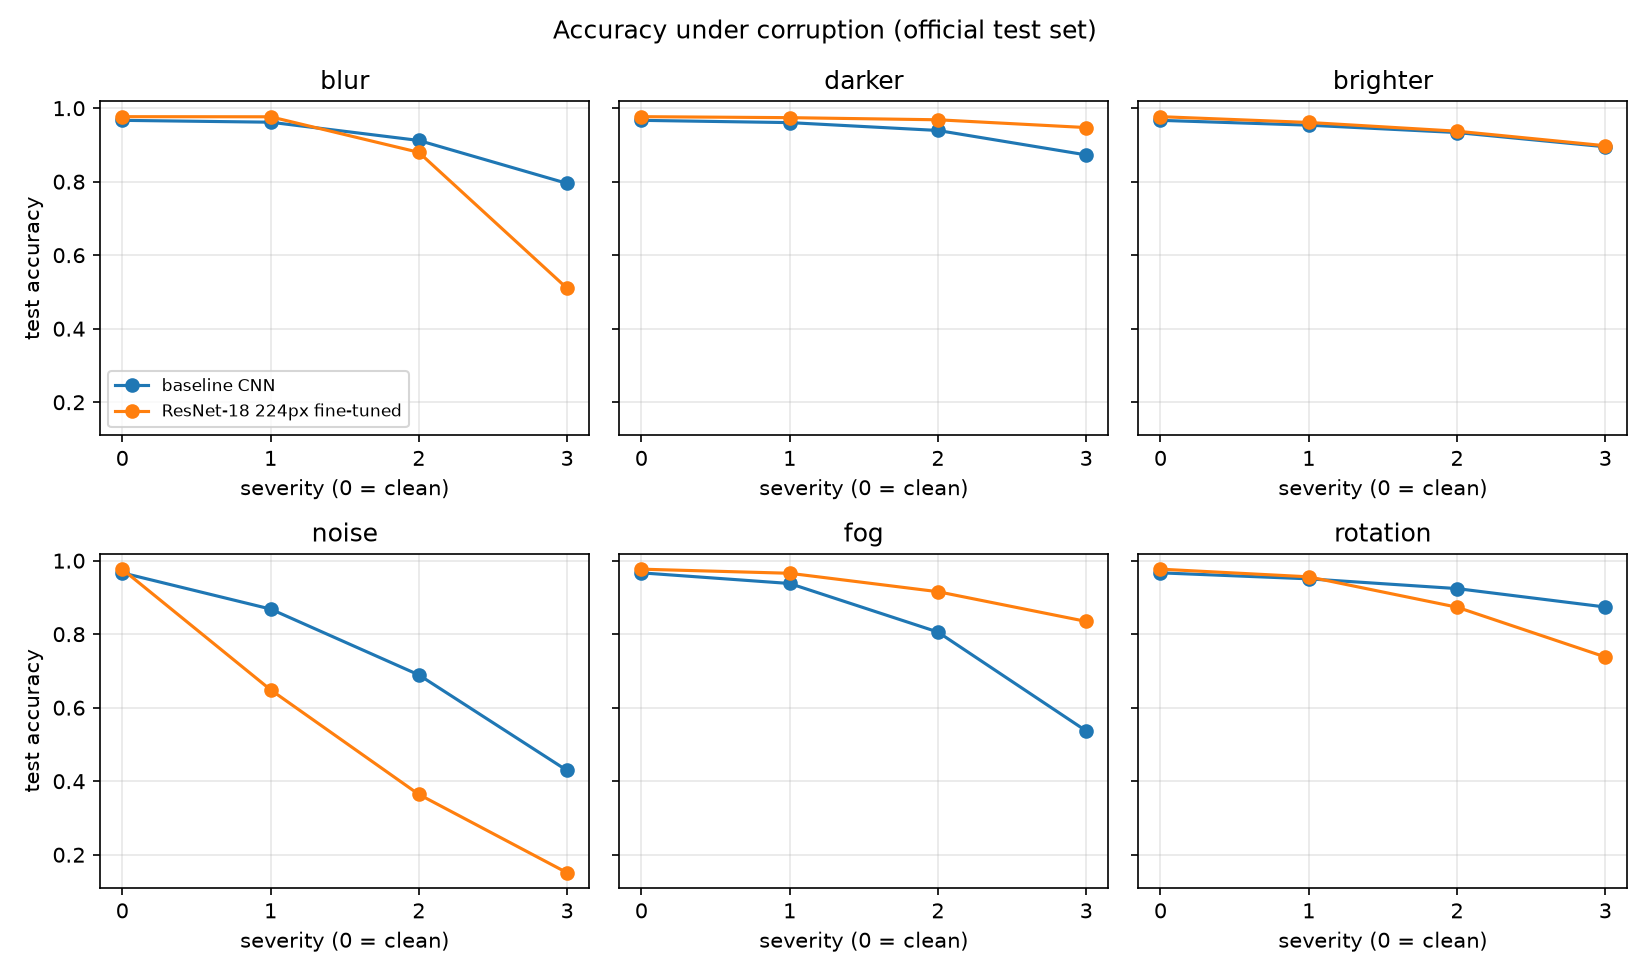
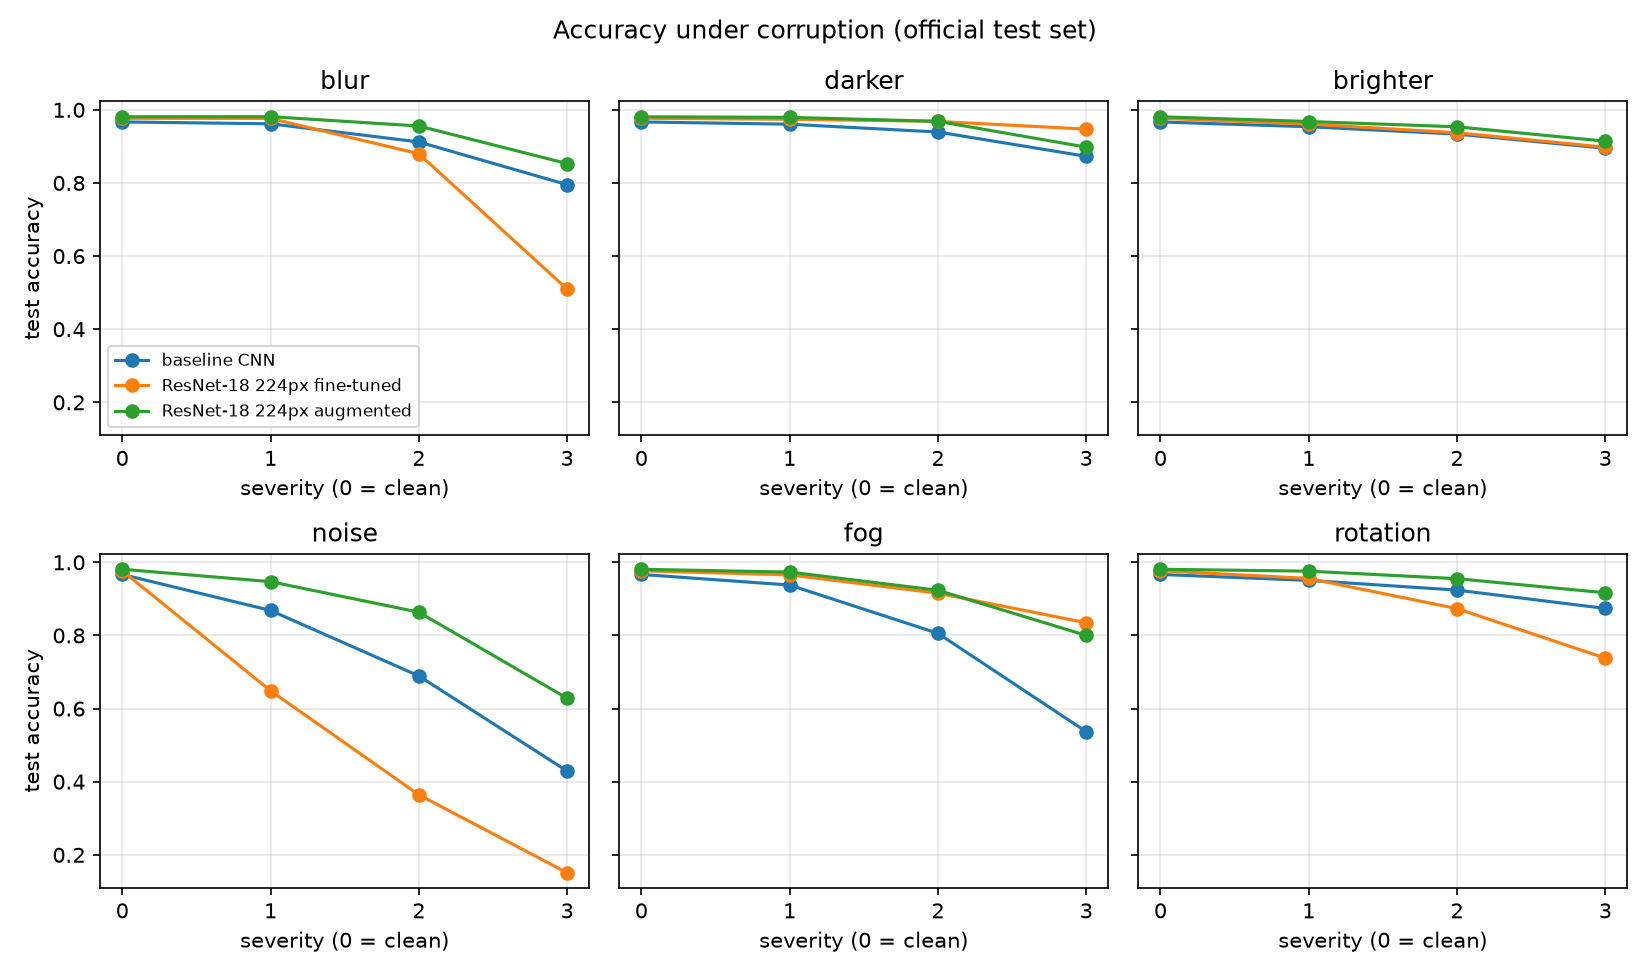
Add augmented fine-tuning, pytest suite and prediction script
Fine-tuning with random blur and noise on training batches reaches 98.11%
clean test accuracy (97.69% without augmentation). Under corruption it beats
the baseline in all 18 conditions, and it is much better on noise (62.83%
vs 15.10% at the strongest level, which is outside its training range).
Its small losses to the unaugmented model on the strongest darkness and
haze levels are kept in the notes.

Also adds:
- robustness.py now evaluates all three models
- a pytest suite of 14 tests that needs no dataset or checkpoints
- predict.py for classifying cropped sign photos

diff --git a/src/tsc/finetune.py b/src/tsc/finetune.py
@@ -1,9 +1,11 @@
 """Fine-tuning: unfreeze the whole ResNet-18 and train it at a low learning rate."""
 import argparse
+import math
 from functools import partial
 
 import torch
 from torch import nn
+from torchvision.transforms import functional as TF
 from torch.utils.data import DataLoader, TensorDataset
 
 from tsc.data import load_train_split, split_train_val, to_tensors
@@ -23,9 +25,26 @@ EPOCHS = 5
 LR = 1e-4
 
 
-def train_all_layers(model, loader, optimizer, loss_fn, device, preprocess):
+def augment_batch(xb):
+    # Training-only augmentation. Each batch is left clean, blurred, or given noise, chosen at random.
+    # The ranges are narrower than the robustness test's strengths, so the test still includes unseen corruptions.
+    x = xb.float()
+    choice = torch.randint(0, 3, (1,)).item()
+    if choice == 1:
+        sigma = torch.empty(1).uniform_(0.5, 1.5).item()
+        k = 2 * math.ceil(3 * sigma) + 1
+        x = TF.gaussian_blur(x, kernel_size=[k, k], sigma=[sigma, sigma])
+    elif choice == 2:
+        std = torch.empty(1).uniform_(5, 25).item()
+        x = x + torch.randn_like(x) * std
+    return x.clamp(0, 255).round().to(torch.uint8)
+
+
+def train_all_layers(model, loader, optimizer, loss_fn, device, preprocess, augment=False):
     model.train()  # every layer learns now, including BatchNorm
     for xb, yb in loader:
+        if augment:
+            xb = augment_batch(xb)
         xb, yb = preprocess(xb).to(device), yb.to(device)
         optimizer.zero_grad()
         loss = loss_fn(model(xb), yb)
@@ -33,7 +52,7 @@ def train_all_layers(model, loader, optimizer, loss_fn, device, preprocess):
         optimizer.step()
 
 
-def main(size=INPUT_SIZE, seed=SEED):
+def main(size=INPUT_SIZE, seed=SEED, augment=False):
     set_seed(seed)  # controls batch order and dropout; the train/validation split stays at SEED
     device = get_device()
     print(f"Using device: {device}, input size {size}px, seed {seed}")
@@ -41,7 +60,7 @@ def main(size=INPUT_SIZE, seed=SEED):
     preprocess = partial(preprocess_for_resnet, size=size)
     frozen_checkpoint = OUTPUTS_DIR / f"resnet18_frozen{size_tag(size)}.pt"
     # The default seed keeps the original file names. Other seeds get a suffix.
-    run_tag = size_tag(size) + ("" if seed == SEED else f"_seed{seed}")
+    run_tag = size_tag(size) + ("" if seed == SEED else f"_seed{seed}") + ("_augmented" if augment else "")
     checkpoint = OUTPUTS_DIR / f"resnet18_finetuned{run_tag}.pt"
 
     # Same data and split as the baseline and the frozen model
@@ -66,7 +85,7 @@ def main(size=INPUT_SIZE, seed=SEED):
 
     best_acc = 0.0
     for epoch in range(1, EPOCHS + 1):
-        train_all_layers(model, train_loader, optimizer, loss_fn, device, preprocess)
+        train_all_layers(model, train_loader, optimizer, loss_fn, device, preprocess, augment)
         val_acc = validation_accuracy(model, val_loader, device, preprocess)
         print(f"epoch {epoch:2d}  validation accuracy {val_acc:.3f}")
         if val_acc > best_acc:
@@ -85,7 +104,7 @@ def main(size=INPUT_SIZE, seed=SEED):
         device,
         csv_path=OUTPUTS_DIR / f"resnet18_finetuned{run_tag}_per_class_accuracy.csv",
         cm_path=OUTPUTS_DIR / f"resnet18_finetuned{run_tag}_confusion_matrix.png",
-        title=f"ResNet-18, fine-tuned, {size}px, seed {seed} (each row sums to 1)",
+        title=f"ResNet-18, fine-tuned, {size}px, seed {seed}{', augmented' if augment else ''} (each row sums to 1)",
     )
 
 
@@ -93,5 +112,6 @@ if __name__ == "__main__":
     parser = argparse.ArgumentParser()
     parser.add_argument("--size", type=int, default=INPUT_SIZE, help="input resolution in pixels")
     parser.add_argument("--seed", type=int, default=SEED, help="seed for batch order and dropout")
+    parser.add_argument("--augment", action="store_true", help="train with blur and noise augmentation")
     args = parser.parse_args()
-    main(size=args.size, seed=args.seed)
+    main(size=args.size, seed=args.seed, augment=args.augment)

diff --git a/src/tsc/predict.py b/src/tsc/predict.py
@@ -1,0 +1,69 @@
+"""Classify your own traffic-sign photos with a trained model.
+
+The model was trained on tightly cropped signs, so crop each photo to the sign before running it.
+Full street scenes are not handled: the model won't find the sign in them.
+
+Example:
+    PYTHONPATH=src python -m tsc.predict photo1.jpg photo2.png --model resnet-augmented
+"""
+import argparse
+from functools import partial
+from pathlib import Path
+
+import torch
+from PIL import Image
+from torchvision import transforms
+
+from tsc.data import IMG_SIZE
+from tsc.models import SmallCNN
+from tsc.train import get_device, normalize
+from tsc.transfer import build_resnet18, preprocess_for_resnet
+
+ROOT = Path(__file__).resolve().parents[2]
+OUTPUTS_DIR = ROOT / "outputs"
+CHECKPOINTS = {
+    "baseline": "baseline.pt",
+    "resnet": "resnet18_finetuned_224px.pt",
+    "resnet-augmented": "resnet18_finetuned_224px_augmented.pt",
+}
+# Same resize as the training data (see to_tensors in data.py)
+to_training_size = transforms.Compose([transforms.Resize((IMG_SIZE, IMG_SIZE)), transforms.PILToTensor()])
+
+
+def load_model(name, device):
+    checkpoint = OUTPUTS_DIR / CHECKPOINTS[name]
+    if name == "baseline":
+        model, preprocess = SmallCNN(), normalize
+    else:
+        model, preprocess = build_resnet18(pretrained=False), partial(preprocess_for_resnet, size=224)
+    model.load_state_dict(torch.load(checkpoint, map_location=device))
+    return model.to(device).eval(), preprocess
+
+
+def predict_image(model, preprocess, path, device, top_k=3):
+    image = Image.open(path).convert("RGB")
+    x = to_training_size(image).unsqueeze(0)  # shape (1, 3, 32, 32), uint8
+    with torch.no_grad():
+        probs = torch.softmax(model(preprocess(x).to(device)), dim=1)[0].cpu()
+    top = torch.topk(probs, top_k)
+    return [(int(class_id), float(p)) for p, class_id in zip(top.values, top.indices)]
+
+
+def main():
+    parser = argparse.ArgumentParser(description="Classify traffic-sign photos (cropped to the sign).")
+    parser.add_argument("images", nargs="+", type=Path, help="one or more image files")
+    parser.add_argument("--model", choices=list(CHECKPOINTS), default="resnet-augmented")
+    parser.add_argument("--top", type=int, default=3, help="how many guesses to show per image")
+    args = parser.parse_args()
+
+    device = get_device()
+    model, preprocess = load_model(args.model, device)
+    print(f"Model: {args.model} ({CHECKPOINTS[args.model]}), device: {device}")
+    for path in args.images:
+        print(path)
+        for class_id, p in predict_image(model, preprocess, path, device, args.top):
+            print(f"  class {class_id:2d}: {p * 100:5.1f}%")
+
+
+if __name__ == "__main__":
+    main()

diff --git a/tests/test_data.py b/tests/test_data.py
@@ -1,0 +1,36 @@
+import torch
+from PIL import Image
+
+from tsc.data import IMG_SIZE, split_train_val, to_tensors
+
+
+def test_to_tensors_resizes_and_keeps_labels():
+    samples = [(Image.new("RGB", (50, 40)), 3), (Image.new("RGB", (20, 60)), 7)]
+
+    X, y = to_tensors(samples)
+
+    assert X.shape == (2, 3, IMG_SIZE, IMG_SIZE)
+    assert X.dtype == torch.uint8
+    assert y.tolist() == [3, 7]
+
+
+def test_split_is_disjoint_and_covers_everything():
+    X = torch.zeros(100, 3, IMG_SIZE, IMG_SIZE, dtype=torch.uint8)
+    y = torch.arange(100)  # unique label per image, so we can see which image lands where
+
+    (X_train, y_train), (X_val, y_val) = split_train_val(X, y, val_fraction=0.1, seed=42)
+
+    assert len(y_val) == 10
+    assert len(y_train) == 90
+    assert set(y_train.tolist()).isdisjoint(y_val.tolist())
+    assert sorted(y_train.tolist() + y_val.tolist()) == list(range(100))
+
+
+def test_split_is_reproducible_with_the_same_seed():
+    X = torch.zeros(50, 3, IMG_SIZE, IMG_SIZE, dtype=torch.uint8)
+    y = torch.arange(50)
+
+    _, (_, val_a) = split_train_val(X, y, seed=1)
+    _, (_, val_b) = split_train_val(X, y, seed=1)
+
+    assert torch.equal(val_a, val_b)

diff --git a/src/tsc/robustness.py b/src/tsc/robustness.py
@@ -54,13 +54,15 @@ def load_models(device):
     baseline = SmallCNN().to(device)
     baseline.load_state_dict(torch.load(OUTPUTS_DIR / "baseline.pt", map_location=device))
 
-    resnet = build_resnet18(pretrained=False).to(device)
-    resnet.load_state_dict(torch.load(OUTPUTS_DIR / "resnet18_finetuned_224px.pt", map_location=device))
-
-    return {
-        "baseline CNN": (baseline, normalize),
-        "ResNet-18 224px fine-tuned": (resnet, partial(preprocess_for_resnet, size=224)),
-    }
+    models = {"baseline CNN": (baseline, normalize)}
+    for name, checkpoint in [
+        ("ResNet-18 224px fine-tuned", "resnet18_finetuned_224px.pt"),
+        ("ResNet-18 224px augmented", "resnet18_finetuned_224px_augmented.pt"),
+    ]:
+        model = build_resnet18(pretrained=False).to(device)
+        model.load_state_dict(torch.load(OUTPUTS_DIR / checkpoint, map_location=device))
+        models[name] = (model, partial(preprocess_for_resnet, size=224))
+    return models
 
 
 def accuracy_on(model, preprocess, X, y, device):

diff --git a/tests/test_metrics.py b/tests/test_metrics.py
@@ -1,0 +1,28 @@
+import torch
+
+from tsc.evaluate import NUM_CLASSES, confusion_matrix, per_class_accuracy
+
+
+def test_per_class_accuracy_counts_each_class():
+    y_true = torch.arange(NUM_CLASSES).repeat(2)  # every class appears twice
+    y_pred = y_true.clone()
+    y_pred[0] = 1  # one image of class 0 is predicted as class 1
+
+    rows = per_class_accuracy(y_true, y_pred)
+
+    assert rows[0] == (0, 2, 1, 0.5)
+    assert rows[1] == (1, 2, 2, 1.0)
+    assert len(rows) == NUM_CLASSES
+
+
+def test_confusion_matrix_counts_true_and_predicted_pairs():
+    y_true = torch.tensor([0, 0, 1])
+    y_pred = torch.tensor([0, 1, 1])
+
+    cm = confusion_matrix(y_true, y_pred)
+
+    assert cm.shape == (NUM_CLASSES, NUM_CLASSES)
+    assert cm[0, 0] == 1  # true 0, predicted 0
+    assert cm[0, 1] == 1  # true 0, predicted 1
+    assert cm[1, 1] == 1  # true 1, predicted 1
+    assert cm.sum() == 3

diff --git a/tests/test_robustness.py b/tests/test_robustness.py
@@ -1,0 +1,28 @@
+import torch
+
+from tsc.robustness import SEVERITY, corrupt
+
+
+def random_images(n=6):
+    torch.manual_seed(0)
+    return torch.randint(0, 256, (n, 3, 32, 32), dtype=torch.uint8)
+
+
+def test_every_corruption_keeps_shape_and_dtype():
+    X = random_images()
+    for name in SEVERITY:
+        for level in (1, 2, 3):
+            out = corrupt(X, name, level)
+            assert out.shape == X.shape, name
+            assert out.dtype == torch.uint8, name
+
+
+def test_darker_lowers_brightness_and_brighter_raises_it():
+    X = random_images()
+    assert corrupt(X, "darker", 3).float().mean() < X.float().mean()
+    assert corrupt(X, "brighter", 1).float().mean() > X.float().mean()
+
+
+def test_noise_is_the_same_every_run():
+    X = random_images()
+    assert torch.equal(corrupt(X, "noise", 2), corrupt(X, "noise", 2))

diff --git a/tests/test_models.py b/tests/test_models.py
@@ -1,0 +1,26 @@
+import torch
+
+from tsc.models import SmallCNN
+from tsc.transfer import build_resnet18, freeze_backbone
+
+
+def test_small_cnn_outputs_one_score_per_class():
+    model = SmallCNN().eval()
+    out = model(torch.zeros(4, 3, 32, 32))
+    assert out.shape == (4, 43)
+
+
+def test_resnet18_outputs_43_classes():
+    model = build_resnet18(pretrained=False).eval()
+    out = model(torch.zeros(2, 3, 64, 64))
+    assert out.shape == (2, 43)
+
+
+def test_freeze_backbone_leaves_only_the_head_trainable():
+    model = build_resnet18(pretrained=False)
+    freeze_backbone(model)
+
+    trainable = sorted(name for name, p in model.named_parameters() if p.requires_grad)
+
+    assert all(name.startswith("fc.") for name in trainable)
+    assert sum(p.numel() for p in model.parameters() if p.requires_grad) == 512 * 43 + 43

diff --git a/tests/test_predict.py b/tests/test_predict.py
@@ -1,0 +1,21 @@
+from functools import partial
+
+from PIL import Image
+
+from tsc.predict import predict_image
+from tsc.transfer import build_resnet18, preprocess_for_resnet
+
+
+def test_predict_returns_top_k_valid_class_ids(tmp_path):
+    photo = tmp_path / "sign.png"
+    Image.new("RGB", (60, 60), color=(200, 30, 30)).save(photo)
+    model = build_resnet18(pretrained=False).eval()  # untrained, but the output shape is what we check
+    preprocess = partial(preprocess_for_resnet, size=64)
+
+    results = predict_image(model, preprocess, photo, device="cpu", top_k=3)
+
+    assert len(results) == 3
+    assert all(0 <= class_id < 43 for class_id, _ in results)
+    assert all(0.0 <= p <= 1.0 for _, p in results)
+    probs = [p for _, p in results]
+    assert probs == sorted(probs, reverse=True)

diff --git a/tests/test_preprocess.py b/tests/test_preprocess.py
@@ -1,0 +1,20 @@
+import torch
+
+from tsc.train import normalize
+from tsc.transfer import IMAGENET_MEAN, IMAGENET_STD, preprocess_for_resnet
+
+
+def test_normalize_maps_0_to_minus_one_and_255_to_one():
+    x = torch.tensor([[[[0.0, 255.0]]]]).to(torch.uint8)
+    out = normalize(x)
+    assert torch.allclose(out.flatten(), torch.tensor([-1.0, 1.0]))
+
+
+def test_resnet_preprocess_resizes_and_uses_imagenet_statistics():
+    x = torch.zeros(2, 3, 32, 32, dtype=torch.uint8)
+
+    out = preprocess_for_resnet(x, size=224)
+
+    assert out.shape == (2, 3, 224, 224)
+    expected = (0 - IMAGENET_MEAN) / IMAGENET_STD  # black pixels, normalised per channel
+    assert torch.allclose(out[0, :, 0, 0], expected.flatten(), atol=1e-6)

diff --git a/docs/experiments.md b/docs/experiments.md
@@ -13,6 +13,7 @@ Test set: official GTSRB test split, 12,630 images. Validation: 10% of the train
 | ResNet-18, frozen backbone, 224 px (`tsc.transfer --size 224`) | 22,059 of 11,198,571 | 0.908 | **0.7860** |
 | ResNet-18, fine-tuned, 224 px, seed 42 (`tsc.finetune --size 224`) | 11,198,571 | 0.999 | **0.9769** |
 | ResNet-18, fine-tuned, 224 px, seed 0 (`tsc.finetune --size 224 --seed 0`) | 11,198,571 | 0.999 | **0.9756** |
+| ResNet-18, fine-tuned, 224 px, blur and noise augmentation (`tsc.finetune --size 224 --augment`) | 11,198,571 | 0.999 | **0.9811** |
 
 Per-class results are in `outputs/*_per_class_accuracy.csv`, and confusion matrices are in `outputs/*_confusion_matrix.png`, one pair per row above.
 
@@ -28,8 +29,8 @@ Per-class results are in `outputs/*_per_class_accuracy.csv`, and confusion matri
 
 ## Next
 
-1. Test whether training with blur and noise augmentation closes the gap on noisy and blurry images.
-2. Add pytest tests, `predict.py`, and the README.
+1. README with the results table, setup steps, and how to run each script.
+2. Move the Kaggle conversion scripts into the repo so the data can be rebuilt.
 
 ## Robustness (official test set, severities 1-3)
 
@@ -48,3 +49,21 @@ Corruptions are applied to the 32 px test images, so both models see identical i
 - The fine-tuned model is better on clean images, darkness, and haze. It is much worse on noise, and worse on heavy blur and on large rotations.
 - The clean-accuracy gain does not carry over to every corruption. A single clean-set number would overstate the model.
 - Single seed. The corruption strengths are simple approximations of real conditions.
+
+### With blur and noise augmentation
+
+Training used random blur (sigma 0.5 to 1.5) and random noise (standard deviation 5 to 25) on a share of the training batches. Clean validation, not augmented.
+
+| Condition | Baseline CNN | Fine-tuned 224 px | Fine-tuned 224 px + augmentation |
+|---|---|---|---|
+| Clean | 96.69% | 97.69% | **98.11%** |
+| Blur 3 | 79.53% | 51.00% | **85.30%** |
+| Noise 1 / 2 / 3 | 86.84 / 68.93 / 42.92% | 64.89 / 36.42 / 15.10% | **94.72 / 86.37 / 62.83%** |
+| Rotation 3 | 87.40% | 73.80% | **91.68%** |
+| Darker 3 | 87.28% | **94.73%** | 89.79% |
+| Fog-like haze 3 | 53.69% | **83.48%** | 80.01% |
+
+- The augmented model beats the baseline in all 18 corruption conditions.
+- Noise severities 1 and 2 are inside the training range. Severity 3 (standard deviation 40) is outside it, and the model still reaches 62.83%. Blur severities 1 and 2 are also inside the training range.
+- Darkness and haze were not in training. The augmented model's gains on haze severities 1 and 2 are the only evidence here that augmentation helps unseen corruptions, and it's weak evidence.
+- Its losses on the two strongest darkness and haze levels are small, but real.
